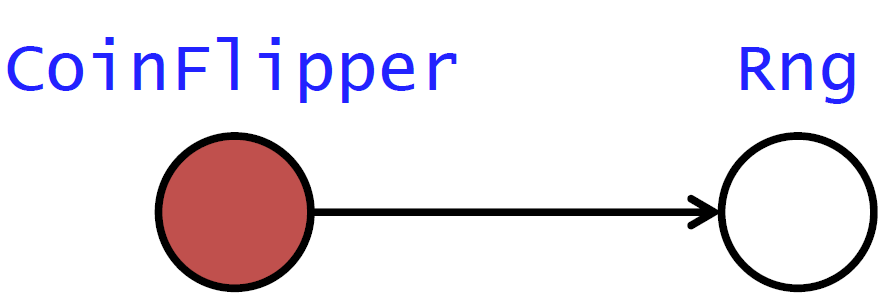
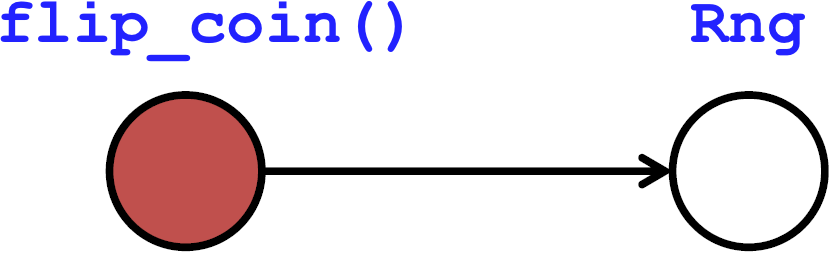
Simplify coinflipper example

Changed region(s): [[0.1203, 0.0, 1.0, 1.0], [0.0, 0.0, 0.5415, 0.3438], [0.8424, 0.875, 0.9627, 1.0]]

diff --git a/contents.md b/contents.md
@@ -22,7 +22,7 @@
     <li>Software Engineer @ <strong>Engineers Gate</strong></li>
     <li>Real-time trading systems</li>
     <li>Scalable data infrastructure</li>
-    <li>C++ developer and Rust enthusiast</li>
+    <li>Python/C++/Rust developer</li>
   </ul>
 </div>
 <div class="clear-col"></div>
@@ -35,7 +35,7 @@ Empahsise background building high-performance enterprise software in C++ for se
 [NEXT]
 ## Outline
 
-1. Unit Testing in Rust
+1. Unit Tests
 2. Why Mock?
 3. Mocking in Rust with `double`
 4. Pattern Matching
@@ -43,7 +43,7 @@ Empahsise background building high-performance enterprise software in C++ for se
 
 
 [NEXT SECTION]
-## 1. Unit Testing
+## 1. Unit Tests
 
 ![unit_testing](images/unit_testing.svg)
 
@@ -294,7 +294,7 @@ Souce: https://martinfowler.com/articles/mocksArentStubs.html
 <div class="left-col">
   <h4>State Verification</h4>
   <p>
-    Test code by asserting on the its and its collaboator's <strong>post-test state</strong>.
+    Test code by asserting its and its collaboator's <strong>post-test state</strong>.
   </p>
   <hr />
   <ul>
@@ -305,7 +305,7 @@ Souce: https://martinfowler.com/articles/mocksArentStubs.html
 <div class="right-col">
   <h4>Behaviour Verification</h4>
   <p>
-    Test code by asserting on its <strong>interaction</strong> with its collaborators.
+    Test code by asserting its <strong>interaction</strong> with its collaborators.
   </p>
   <hr />
   <ul>
@@ -320,7 +320,9 @@ Of these kinds of doubles, only mocks insist upon behavior verification.
 Souce: https://martinfowler.com/articles/mocksArentStubs.html
 
 [NEXT]
-TODO: empahsise use cases
+Both techniques are useful.
+
+Use the right tool for the job.
 
 [NEXT]
 Behaviour verification with **mocks** is the focus of this talk.
@@ -339,13 +341,13 @@ WHY? Mocks are the most flexible. They're a superset of stubs and spies.
 ![coin_flip](images/coin-flip.jpg)
 
 * A simple game to flip a coin
-* `CoinFlipper` class implements the game
+* `flip_coin()` function implements the game
 * It interacts with a random number generator
-* We can change a number generator at runtime
-* Goal is to **test** `CoinFlipper`
+* We pass in the generator to use 
+* Goal is to **test** `flip_coin()`
 
 _note_
-We can change a number generator at runtime, using dependency injection
+We specify a generator to use during setup. We use dependency injection to TODO.
 
 [NEXT]
 ## Interfaces
@@ -363,33 +365,18 @@ pub enum CoinFlip {
 ```
 
 [NEXT]
-## Implementation
+## Code Under Test
 
 ```rust
-pub struct CoinFlipper {
-    rng: Rng,
-}
-
-impl CoinFlipper {
-    pub fn new(rng: Rng) -> CoinFlipper {
-        CoinFlipper {
-            rng: rng
-        }
-    }
-
-    pub fn flip_coin(&mut self) -> {
-        let r = rng.next_f64();
-        if r < 0.5 {
-            CoinFlip::Heads
-        } else {
-            CoinFlip::Tails
-        }
+pub fn flip_coin<R: Rng>(rng: &mut R) -> CoinFlip {
+    let r = rng.next_f64();
+    if r < 0.5 {
+        CoinFlip::Heads
+    } else {
+        CoinFlip::Tails
     }
 }
 ```
-<!-- .element class="medium" -->
-
-TODO: write code and ensure it builds
 
 [NEXT]
 ## Playing the Game
@@ -401,11 +388,8 @@ fn play() {
     // Construct a particular RNG implementation
     let rng = SomeRngImplementation();
 
-    // Create a game
-    let mut game = CoinFlipper(rng);
+    let flip = flip_coin(&rng);
 
-    // Start playing
-    let flip = game.flip_coin();
     if flip == CoinFlip::Heads {
         println!("Heads!");
     } else {
@@ -419,9 +403,9 @@ fn play() {
 
 * One collaborator &mdash; `Rng`
 * Real RNG is non-deterministic
-* We want to test `CoinFlipper` produces both results
-  - we also want these tests to be repeatable
-  - without relying on an external environment
+* We want to test `flip_coin()` produces both results
+  - tests should be repeatable
+  - and not rely on an external environment
 
 [NEXT]
 <!-- .slide: class="large-slide" -->
@@ -434,35 +418,6 @@ fn play() {
 * flexible configuration of mock's **behaviour**
 * can make simple and complex **assertions** on mock calls
 * **pattern matching** for call arguments
-
-[NEXT]
-### Core Design Principles
-<br />
-(1) Rust stable first <!-- .element: class="fragment" data-fragment-index="1" -->
-
-(2) Requires no changes to production code <!-- .element: class="fragment" data-fragment-index="2" -->
-
-_note_
-Emphasise how these goals has had the biggest influence on the design of the
-library. It's at the core of the library and what differentiates it from other
-mocking libraries in Rust.
-
-Other Mocking Libraries
-
-Supports rust stable via code generation and less features:
-  - https://github.com/kriomant/mockers
-
-Supports Rust stable, but lots of code boilerplate and less features:
-  - https://github.com/iredelmeier/pseudo
-
-Require changing prod code (and thus, can't be used for external `traits`) and require nightly:
-  - https://github.com/craftytrickster/mock_me
-  - https://github.com/DavidDeSimone/mock_derive
-  - https://github.com/CodeSandwich/Mocktopus
-  - https://github.com/mindsbackyard/galvanic-mock
-
-[NEXT]
-How to use `double`?
 
 [NEXT]
 ## Defining Mock Collaborators
@@ -550,7 +505,7 @@ Emphasise this is the only boilerplate needed.
 Construct mock object:
 
 ```rust
-let rng = MockRng::default();
+let mut rng = MockRng::default();
 ```
 
 Configure behaviour:
@@ -571,12 +526,11 @@ assert_eq!(1, rng.next_f64.num_calls());
 <pre class="medium"><code data-noescape class="rust">#[test]
 fn test_coin_flipper_yielding_heads() {
     // GIVEN:
-<mark>    let rng = MockRng::default();</mark>
+<mark>    let mut rng = MockRng::default();</mark>
 <mark>    rng.next_f64.return_value(0.25);</mark>
 
     // WHEN:
-    let mut game = CoinFlipper::new(rng);
-    let flip = game.flip_coin();
+    let flip = flip_coin(&rng);
 
     // THEN:
     assert_eq!(CoinFlip::Heads, flip);
